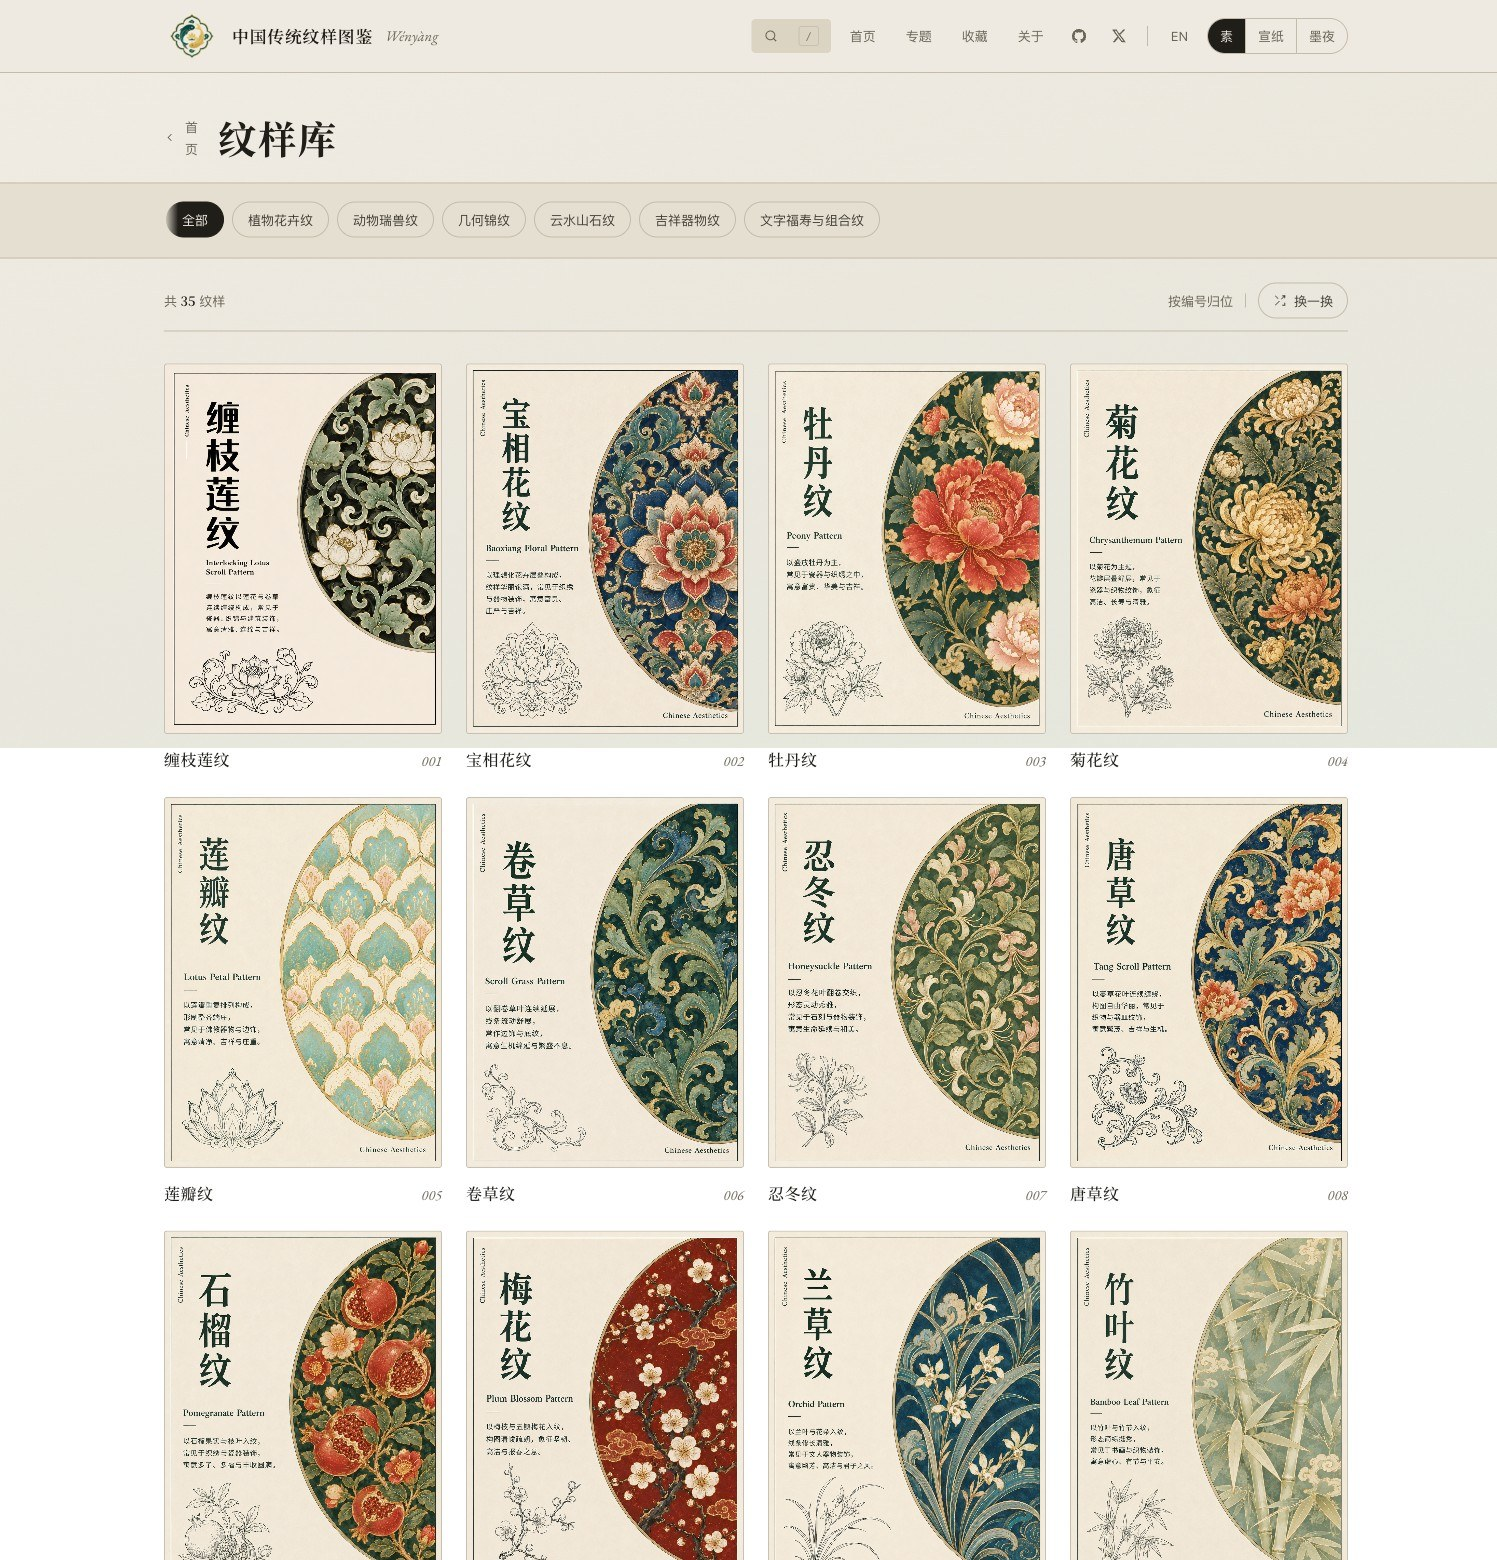
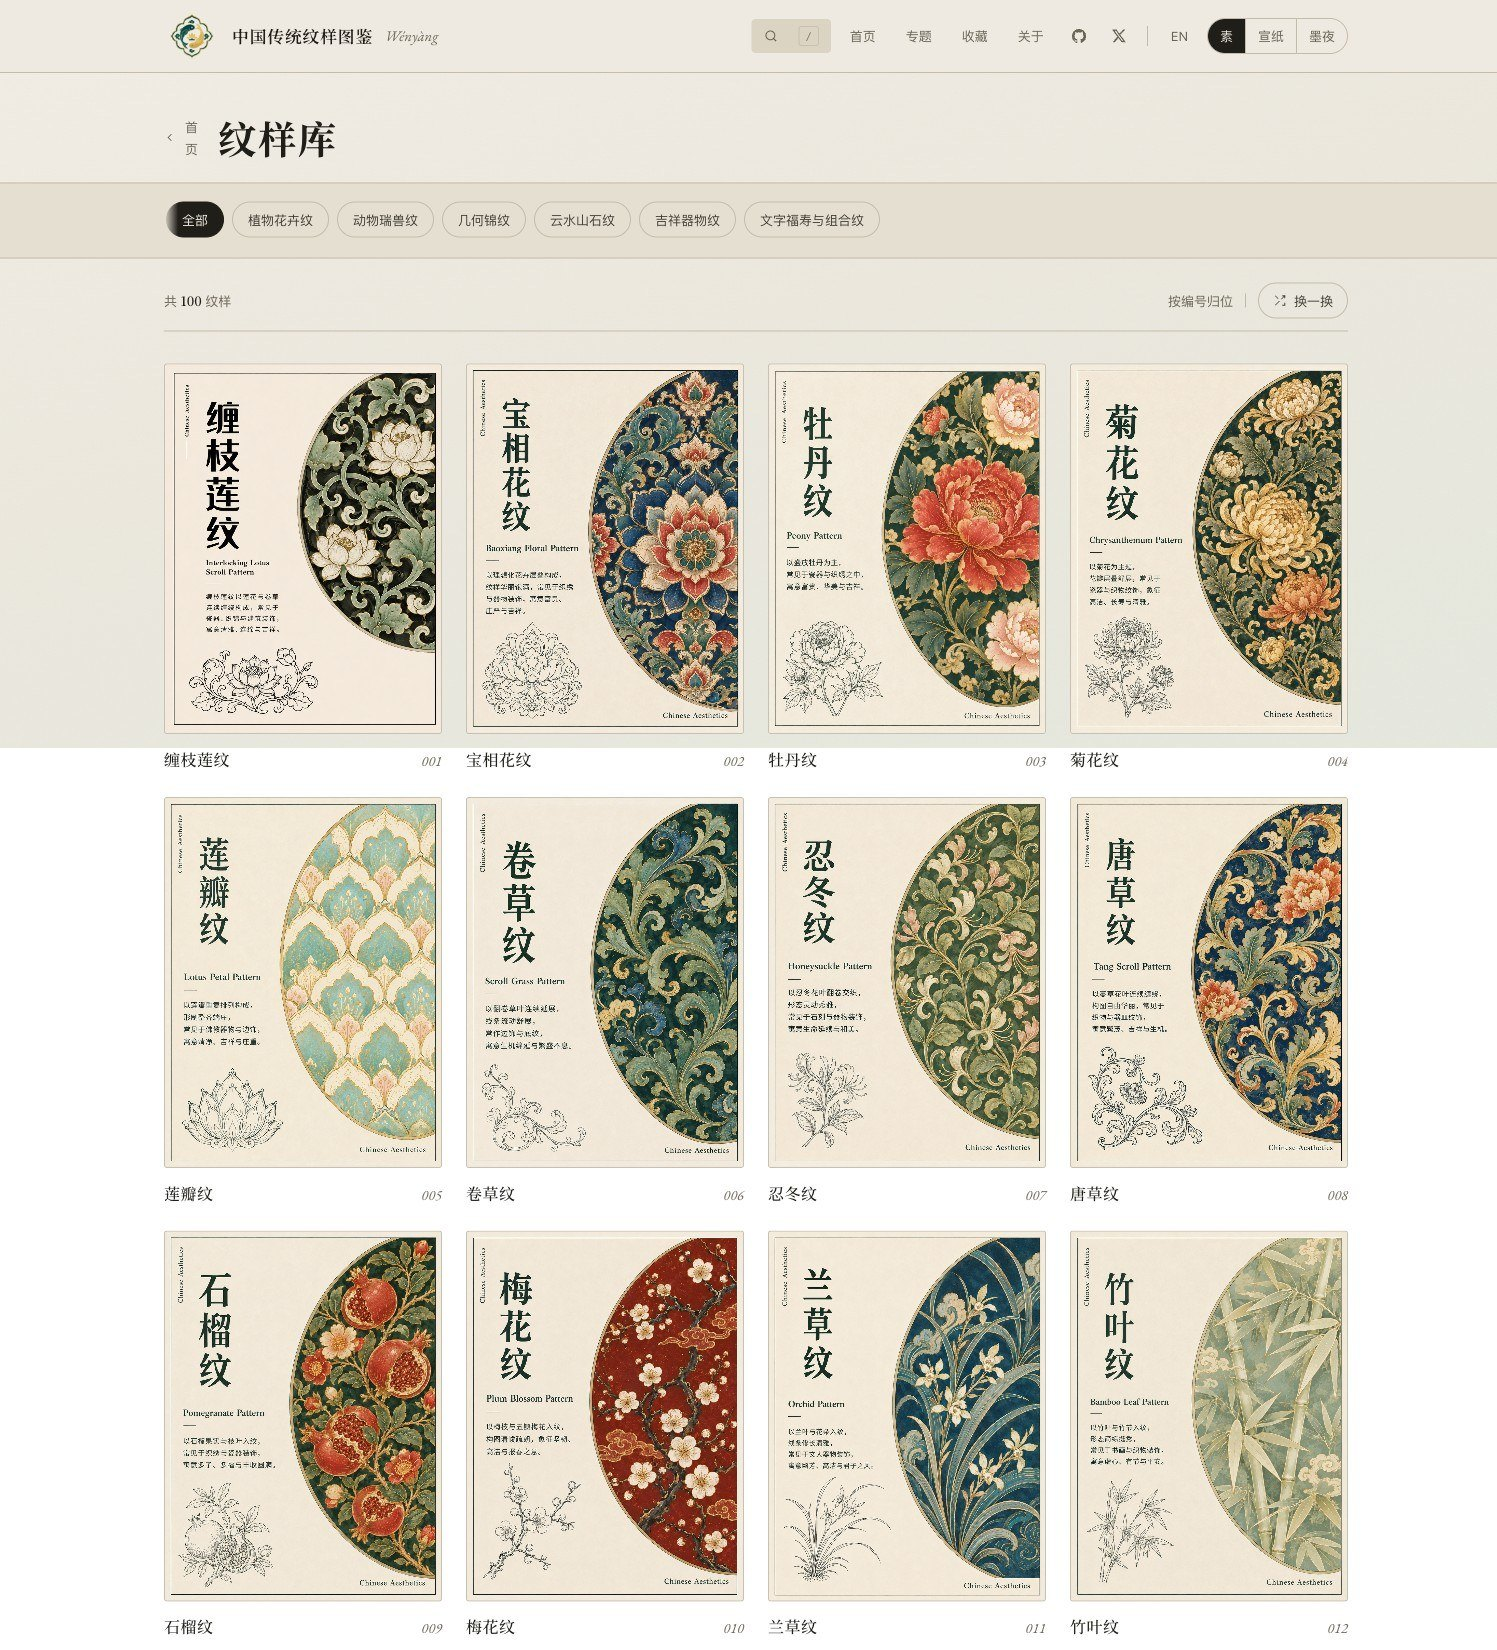
关于作者补充邮箱 + 修复过时的图库截图
- 四语 README「关于作者」及 LICENSE-CONTENT 商业授权联系处补充邮箱 [email redacted]
- 图库一览截图换成当前「共 100 纹样」版本（原图为旧版 35 条、且裁切丢了背景），
  新图含完整三行 + 暖色背景，收尾落在行间。

diff --git a/LICENSE-CONTENT.md b/LICENSE-CONTENT.md
@@ -52,6 +52,7 @@ For commercial licensing, please contact the author:
 
 - GitHub: https://github.com/dososo
 - X / Twitter: https://x.com/thinkszyg
+- Email: [email redacted]
 
 ---
 

diff --git a/README.en.md b/README.en.md
@@ -256,6 +256,7 @@ Created and maintained solo by **BLCaptain (爆裂队长NEXT)**.
 - 🌐 Website: [wenyang.net](https://wenyang.net)
 - 💻 GitHub: [@dososo](https://github.com/dososo)
 - 🐦 X / Twitter: [@thinkszyg](https://x.com/thinkszyg)
+- ✉️ Email: [[email redacted]](mailto:[email redacted])
 
 If this project helps you, a ⭐ Star, a share, or a hello on X is much appreciated.
 

diff --git a/README.md b/README.md
@@ -254,6 +254,7 @@ A：见 [参与共建](#-参与共建)，开 Issue / PR 或直接联系作者。
 - 🌐 网站：[wenyang.net](https://wenyang.net)
 - 💻 GitHub：[@dososo](https://github.com/dososo)
 - 🐦 X / Twitter：[@thinkszyg](https://x.com/thinkszyg)
+- ✉️ 邮箱：[[email redacted]](mailto:[email redacted])
 
 如果这个项目对你有帮助，欢迎 ⭐ Star、分享，或在 X 上 @我交流。
 